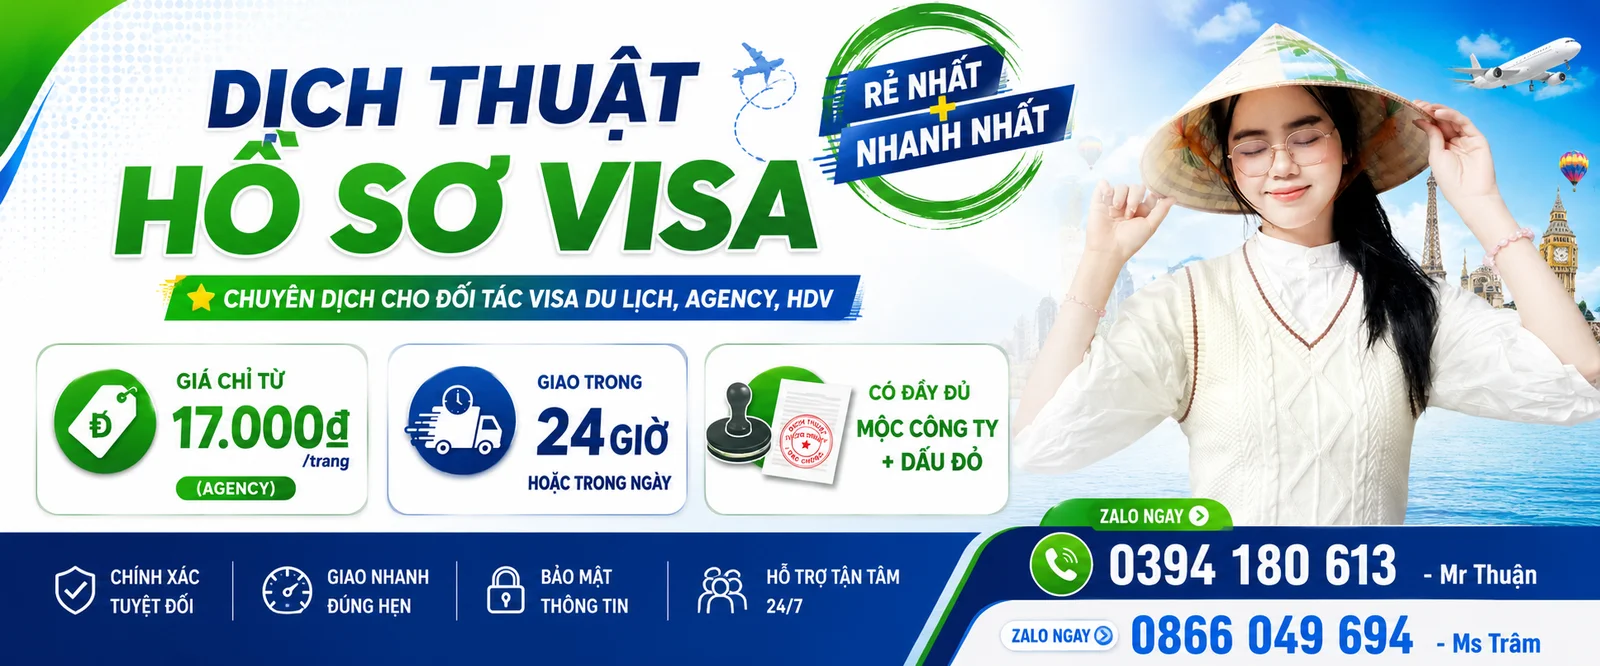
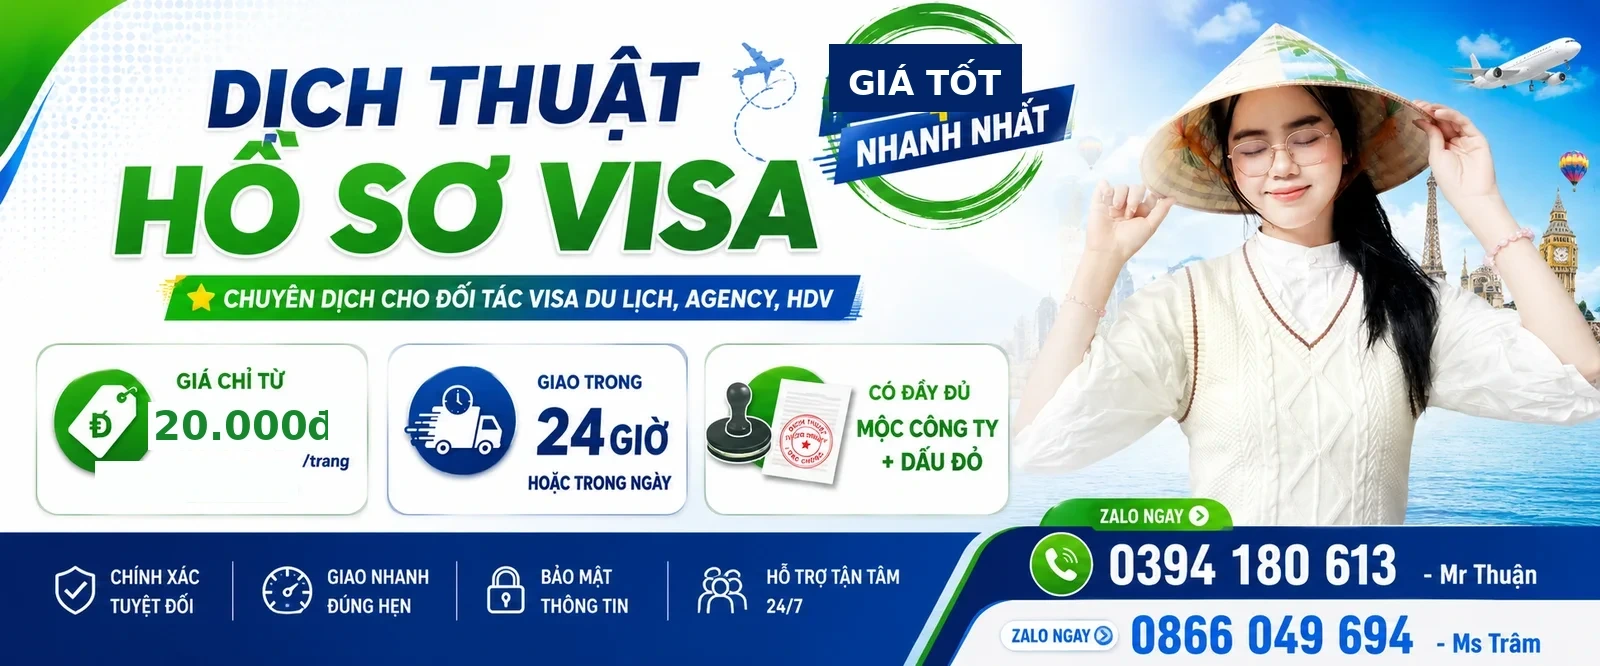
Pre-flight fixes for Ads/SEO launch + 3 new blog posts
- Banner: remove "RẺ NHẤT" superlative claim, remove exposed agency
  pricing, show correct public per-page price (Ads policy compliance)
- Tracking: separate GA4 events per phone number (Thuận/Trâm) so their
  performance can be compared, not just merged into one call/zalo event
- Footer: add missing utm_content to zalo links
- Landing pages (/lp/*): add legal name + physical address to footer,
  required for Ads landing page policy
- Add 3 blog posts: Schengen document checklist, savings book
  translation errors, honest US visa B1/B2 translation-not-required post

diff --git a/src/scripts/tracking.js b/src/scripts/tracking.js
@@ -30,12 +30,23 @@ function appendPageParamsToZaloHref(href) {
   return url.toString();
 }
 
-function fireConversion(kind) {
+// Xác định click thuộc số Thuận hay Trâm bằng cách so khớp chuỗi số điện thoại có trong href
+// (tel: và zalo.me đều chứa nguyên số điện thoại trong đường dẫn) — để tách hiệu quả 2 số trong GA4.
+function identifyContactPerson(href) {
+  if (tracking.contactTramPhone && href.includes(tracking.contactTramPhone)) return 'tram';
+  if (tracking.contactThuanPhone && href.includes(tracking.contactThuanPhone)) return 'thuan';
+  return 'unknown';
+}
+
+function fireConversion(kind, person) {
   const conversionId =
     kind === 'zalo' ? tracking.googleAdsConversionZalo : tracking.googleAdsConversionCall;
+  const eventName = kind === 'zalo' ? 'zalo_click' : 'call_click';
 
   if (typeof window.gtag === 'function') {
     window.gtag('event', 'conversion', { send_to: conversionId });
+    // Event GA4 riêng (không giới hạn send_to) kèm contact_person để so sánh hiệu quả số Thuận/Trâm
+    window.gtag('event', eventName, { contact_person: person });
   }
   if (typeof window.fbq === 'function') {
     window.fbq('track', 'Contact');
@@ -55,9 +66,9 @@ function initTracking() {
     const href = link.getAttribute('href') || '';
 
     if (href.includes('zalo.me')) {
-      fireConversion('zalo');
+      fireConversion('zalo', identifyContactPerson(href));
     } else if (href.startsWith('tel:')) {
-      fireConversion('call');
+      fireConversion('call', identifyContactPerson(href));
     }
   });
 }

diff --git a/src/content/blog/dich-so-tiet-kiem-sang-tieng-anh-loi-hay-gap.md b/src/content/blog/dich-so-tiet-kiem-sang-tieng-anh-loi-hay-gap.md
@@ -1,0 +1,52 @@
+---
+title: "Dịch Sổ Tiết Kiệm Sang Tiếng Anh: Mẫu Chuẩn Lãnh Sự + 5 Lỗi Hay Gặp"
+slug: "dich-so-tiet-kiem-sang-tieng-anh-loi-hay-gap"
+description: "Thuật ngữ chuẩn khi dịch sổ tiết kiệm sang tiếng Anh cho hồ sơ visa, và 5 lỗi phổ biến khiến bản dịch bị lãnh sự nghi ngờ hoặc trả về yêu cầu sửa."
+updated: 2026-07-21
+---
+
+Sổ tiết kiệm là bằng chứng năng lực tài chính phổ biến nhất trong hồ sơ visa du lịch. Khác với giấy tờ nhân thân, bản dịch sổ tiết kiệm bị soi kỹ hơn vì liên quan trực tiếp đến khả năng tài chính và ràng buộc quay về Việt Nam — một lỗi nhỏ về số liệu cũng đủ khiến hồ sơ bị nghi ngờ.
+
+## Thuật ngữ chuẩn cần dùng đúng
+
+| Tiếng Việt | Tiếng Anh chuẩn |
+|---|---|
+| Sổ tiết kiệm | Savings Book |
+| Số dư | Balance |
+| Kỳ hạn | Term / Tenor |
+| Ngày mở sổ | Account opening date |
+| Lãi suất | Interest rate |
+| Chủ sở hữu | Account holder |
+| Ngân hàng phát hành | Issuing bank |
+
+## 5 lỗi hay gặp khi dịch sổ tiết kiệm
+
+### 1. Làm tròn số dư
+
+Số dư trên bản dịch phải khớp **chính xác từng đồng** với bản gốc. Làm tròn dù chỉ một chữ số — dù vô tình — cũng có thể khiến hồ sơ bị nghi ngờ chỉnh sửa số liệu.
+
+### 2. Dịch "kỳ hạn" bằng từ chung chung
+
+"Kỳ hạn" cần dịch đúng thuật ngữ ngân hàng ("term" hoặc "tenor") thay vì "duration" — từ đúng chuyên ngành cho thấy bản dịch được làm cẩn thận, không phải dịch máy chỉnh sửa qua loa.
+
+### 3. Bỏ sót điều khoản mặt sau sổ
+
+Phần điều khoản/ghi chú nhỏ ở mặt sau sổ đôi khi bị bỏ qua vì nghĩ không quan trọng — nhưng đây lại là phần lãnh sự đôi khi soi để xác minh tính thanh khoản thật của tài khoản.
+
+### 4. Tên ngân hàng dịch không nhất quán
+
+Nếu hồ sơ có nhiều giấy tờ tài chính từ cùng một ngân hàng (sổ tiết kiệm, sao kê, xác nhận số dư), tên ngân hàng phải được dịch giống hệt nhau ở mọi giấy tờ. Dịch "Ngân hàng TMCP Ngoại thương Việt Nam" thành hai cách viết tiếng Anh khác nhau ở hai giấy tờ khác nhau dễ bị lãnh sự đọc như hai ngân hàng khác nhau.
+
+### 5. Thiếu mộc và xác nhận dịch
+
+Bản dịch sổ tiết kiệm không có mộc công ty dịch thuật + xác nhận dịch (chỉ in ra giấy trắng) không đủ điều kiện nộp lãnh sự quán — đây là lỗi thường gặp ở người tự dịch hoặc dùng công cụ dịch tự động.
+
+## Vài lưu ý thêm khi chuẩn bị
+
+- **Sổ đứng tên người khác** (bố mẹ, người thân): vẫn dùng được nếu kèm giấy tờ chứng minh quan hệ như [giấy khai sinh](/mau-dich/giay-khai-sinh/) hoặc [đăng ký kết hôn](/mau-dich/dang-ky-ket-hon/), để lãnh sự hiểu đây là hỗ trợ tài chính từ người thân.
+- **Sổ mới mở gần ngày nộp hồ sơ**: có thể bị hỏi thêm về nguồn tiền khi phỏng vấn hoặc xét hồ sơ — đây là rủi ro thuộc về hồ sơ tài chính, bản dịch chỉ phản ánh đúng thông tin trên sổ, không thể "làm đẹp" thêm.
+- **Có nhiều sổ ở nhiều ngân hàng**: có thể dịch hết để tổng tài sản thể hiện đầy đủ hơn, hoặc chỉ chọn sổ có số dư lớn nhất — tuỳ chiến lược hồ sơ của từng người.
+
+Nếu hồ sơ yêu cầu năng lực tài chính cao, nên xin thêm xác nhận số dư (bank confirmation letter) kèm sổ tiết kiệm — hai giấy tờ dịch cùng bộ sẽ nhất quán số liệu hơn khi đối chiếu.
+
+Xem [mẫu dịch sổ tiết kiệm thật](/mau-dich/so-tiet-kiem/) đã che thông tin cá nhân, hoặc gửi ảnh sổ qua Zalo để nhận báo giá và được rà soát trước các lỗi trên trước khi dịch.

diff --git a/src/content/blog/su-that-visa-my-khong-can-dich-ho-so.md b/src/content/blog/su-that-visa-my-khong-can-dich-ho-so.md
@@ -1,0 +1,42 @@
+---
+title: "Sự Thật: Đa Số Hồ Sơ Visa Mỹ B1/B2 KHÔNG Cần Dịch Giấy Tờ"
+slug: "su-that-visa-my-khong-can-dich-ho-so"
+description: "Đa số hồ sơ xin visa du lịch Mỹ (B1/B2) không cần dịch bất kỳ giấy tờ nào — phỏng vấn trực tiếp mới là yếu tố quyết định. Bài viết nêu rõ 3 trường hợp thực sự cần dịch, để không tốn tiền dịch những giấy tờ không cần thiết."
+updated: 2026-07-21
+---
+
+Có một hiểu lầm khá phổ biến: xin visa nước nào cũng cần dịch hồ sơ ra tiếng Anh trước khi nộp. Với visa Mỹ diện du lịch (B1/B2), điều này **không đúng** — và bài viết này viết ra không phải để bán thêm dịch vụ, mà vì đây là thông tin nhiều người chuẩn bị hồ sơ visa Mỹ nên biết trước khi tốn tiền dịch những giấy tờ không cần thiết.
+
+## Vì sao đa số hồ sơ B1/B2 không cần dịch
+
+Đại sứ quán/Lãnh sự quán Hoa Kỳ tại Việt Nam **không yêu cầu nộp hay xem giấy tờ dịch** cho hồ sơ visa du lịch B1/B2. Hai lý do chính:
+
+1. **Quyết định chủ yếu dựa vào buổi phỏng vấn trực tiếp** — viên chức lãnh sự đánh giá qua câu trả lời, mục đích chuyến đi, và ràng buộc quay về Việt Nam, không phải qua một chồng giấy tờ dịch sẵn.
+2. **Đơn DS-160 luôn khai trực tuyến bằng tiếng Anh** — đương đơn điền trực tiếp trên hệ thống của Bộ Ngoại giao Hoa Kỳ, không có bản giấy tiếng Việt nào cần dịch.
+
+Nếu chỉ xin visa du lịch Mỹ và chưa từng bị từ chối, thời gian và chi phí nên dồn vào chuẩn bị tốt cho buổi phỏng vấn, thay vì dịch thật nhiều loại giấy tờ.
+
+## Vậy khi nào thực sự cần dịch cho visa Mỹ?
+
+Có 3 trường hợp cụ thể dịch thuật thực sự có ích:
+
+**1. Hồ sơ từng bị từ chối theo mục 214(b)**
+Muốn chuẩn bị bổ sung, chứng minh ràng buộc kỹ hơn cho lần nộp lại — nhiều trường hợp chọn chuẩn bị kỹ hơn giấy tờ công việc, tài chính, gia đình để trình bày rõ ràng hơn khi phỏng vấn lại.
+
+**2. Xin các diện visa Mỹ khác ngoài B1/B2**
+Định cư, K1, lao động... — các diện này có quy trình nộp hồ sơ giấy khác với B1/B2, yêu cầu cụ thể tuỳ diện visa. Nên xác nhận trực tiếp với luật sư/đơn vị xử lý hồ sơ diện đó trước khi dịch.
+
+**3. Muốn chủ động có sẵn bản tiếng Anh mang theo**
+Không bắt buộc phải xuất trình, nhưng một số người muốn tự tin hơn khi phỏng vấn nếu có sẵn bản dịch để tham khảo trước.
+
+Ngoài 3 trường hợp trên, dịch thuật không phải bước bắt buộc của quy trình xin visa Mỹ B1/B2.
+
+## Vậy nên tập trung vào đâu?
+
+- Chuẩn bị kỹ nội dung trả lời phỏng vấn: mục đích chuyến đi rõ ràng, ràng buộc quay về Việt Nam (công việc, gia đình, tài sản) trình bày mạch lạc.
+- Khai đơn DS-160 chính xác, nhất quán với thông tin sẽ trình bày khi phỏng vấn.
+- Nếu từng bị từ chối, tìm hiểu kỹ lý do trước khi nộp lại, thay vì lặp lại đúng hồ sơ cũ.
+
+Nguồn: [Đại sứ quán & Lãnh sự quán Hoa Kỳ tại Việt Nam — Nonimmigrant Visas](https://vn.usembassy.gov/visas/nonimmigrant-visas/).
+
+Nếu hồ sơ thuộc một trong 3 trường hợp cần dịch ở trên, xem chi tiết tại [trang visa Mỹ](/visa/visa-my/) hoặc gửi Zalo để được xác nhận đúng giấy tờ cần thiết cho trường hợp cụ thể của mình — không dịch dư những gì không cần.

diff --git a/src/content/blog/checklist-dich-ho-so-visa-schengen-2026.md b/src/content/blog/checklist-dich-ho-so-visa-schengen-2026.md
@@ -1,0 +1,43 @@
+---
+title: "Hồ Sơ Visa Schengen Cần Dịch Những Giấy Tờ Gì? Checklist 2026"
+slug: "checklist-dich-ho-so-visa-schengen-2026"
+description: "Checklist giấy tờ thường cần dịch khi xin visa Schengen: cư trú, tài chính, công việc, và những điểm khác nhau giữa các nước trong khối cần xác nhận trước khi dịch."
+updated: 2026-07-21
+---
+
+Khối Schengen gồm hơn 25 quốc gia châu Âu dùng chung chính sách thị thực ngắn hạn, nhưng **mỗi nước tự quy định yêu cầu hồ sơ dịch thuật riêng** — không có một checklist chung áp dụng cho tất cả. Danh sách dưới đây là các giấy tờ phổ biến nhất trong hồ sơ Schengen diện du lịch, nhưng anh/chị vẫn nên xác nhận yêu cầu cụ thể của quốc gia mình dự định nộp trước khi dịch.
+
+## 1. Giấy tờ cư trú
+
+- [CT07 — xác nhận thông tin về cư trú](/mau-dich/ct07-xac-nhan-cu-tru/) (thay cho sổ hộ khẩu giấy đã hết hiệu lực từ 2023)
+
+Hầu hết trung tâm tiếp nhận hồ sơ (VFS Global, TLScontact) yêu cầu giấy tờ này để xác minh nơi cư trú hiện tại khớp với đơn xin visa.
+
+## 2. Giấy tờ tài chính
+
+- [Sổ tiết kiệm](/mau-dich/so-tiet-kiem/) hoặc sao kê tài khoản ngân hàng
+- [Xác nhận thu nhập](/mau-dich/xac-nhan-thu-nhap/)
+
+Đây là nhóm giấy tờ lãnh sự soi kỹ nhất — chứng minh khả năng tài chính đủ cho chuyến đi và không có động cơ ở lại quá hạn.
+
+## 3. Giấy tờ công việc
+
+- [Hợp đồng lao động](/mau-dich/hop-dong-lao-dong/)
+- [Giấy phép kinh doanh](/mau-dich/giay-phep-kinh-doanh/) — nếu là chủ doanh nghiệp thay vì đi làm công ty
+
+## 4. Giấy tờ theo trường hợp riêng
+
+- [Đăng ký kết hôn](/mau-dich/dang-ky-ket-hon/) — nếu đi cùng vợ/chồng trong cùng hồ sơ
+- Giấy tờ chứng minh tài sản (sổ đỏ/sổ hồng, đăng ký xe) — nếu muốn củng cố thêm ràng buộc quay về Việt Nam
+
+## Vì sao không có một checklist chung cho cả khối Schengen
+
+Ba điểm khác nhau phổ biến giữa các nước:
+
+- **Ngôn ngữ chấp nhận**: nhiều quốc gia chấp nhận bản dịch tiếng Anh, một số yêu cầu ngôn ngữ bản địa (Pháp, Đức, Ý...).
+- **Hình thức dịch**: phần lớn chấp nhận bản dịch có mộc công ty + xác nhận dịch, nhưng một số trung tâm tiếp nhận có thể yêu cầu công chứng tư pháp cho một số giấy tờ nhất định.
+- **Số lượng giấy tờ yêu cầu**: tuỳ mục đích chuyến đi (du lịch, thăm thân, công tác) và tuỳ quốc gia cụ thể trong khối.
+
+## Cách xác định đúng giấy tờ cần dịch cho trường hợp của mình
+
+Gửi ảnh giấy tờ hiện có + tên quốc gia Schengen dự định nộp hồ sơ qua Zalo — được xác nhận đúng danh sách và hình thức dịch phù hợp trong 5 phút, thay vì tự đoán rồi phải dịch bổ sung sau. Xem thêm [yêu cầu chi tiết cho visa Schengen](/visa/visa-schengen/) hoặc [gói trọn hồ sơ](/bang-gia/) nếu muốn biết trước tổng chi phí cho cả bộ thay vì tính lẻ từng tờ.
